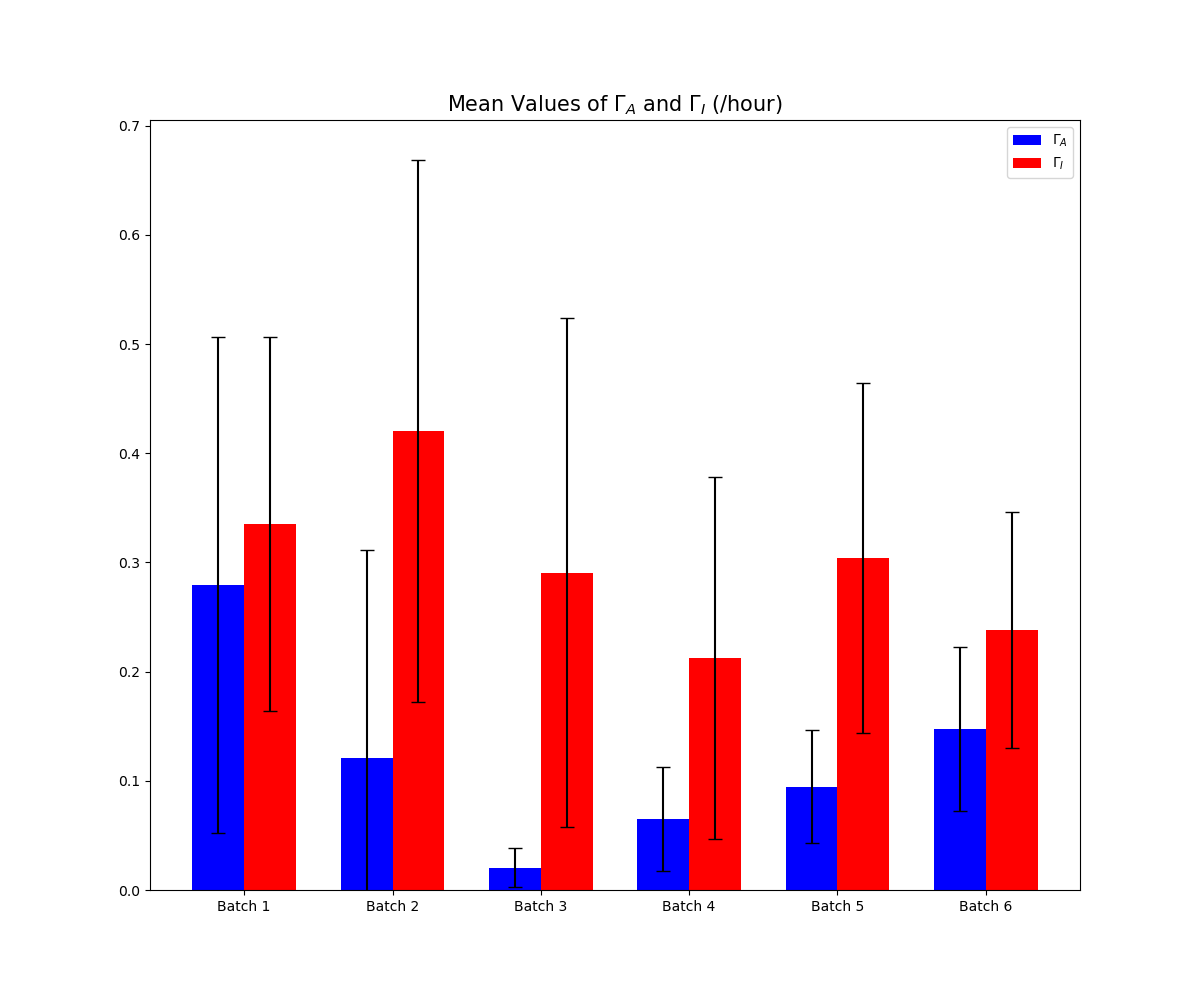
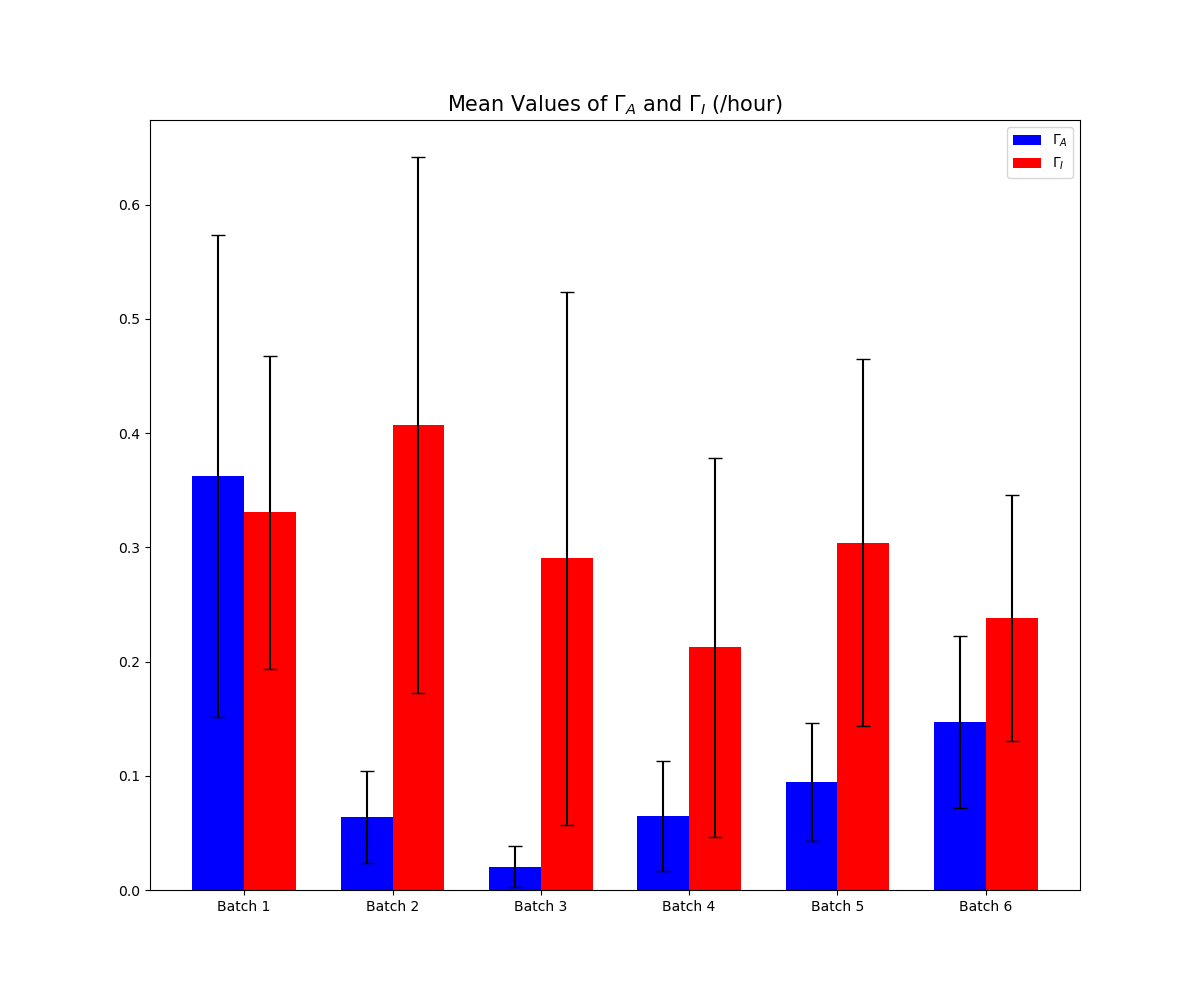
applied masks

diff --git a/plot_regression_results_20260518.py b/plot_regression_results_20260518.py
@@ -10,7 +10,12 @@ x_labels = ['init_no3', 'init_no2']
 y_labels = ['r_A', 'r_I', 'Gamma_A', 'Gamma_I']
 
 # r_A, Gamma_A : Exclude init_no3 = 0 conditions
+r_A_mask = df['init_no3'] > 0.3
+Gamma_A_mask = df['init_no3'] > 0.3
+
 # r_I, Gamma_I : Exclude init_no3 = 0 and init_no2 = 0 conditions
+r_I_mask = ((df['init_no3'] > 0.3) | (df['init_no2'] > 0.3))
+Gamma_I_mask = ((df['init_no3'] > 0.3) | (df['init_no2'] > 0.3))
 
 r_A_mean = []
 r_A_std = []
@@ -23,10 +28,10 @@ Gamma_I_std = []
 
 ids = ['4.2.batch1', '4.2.batch2', '4.2.batch3', '4.2.batch4', '4.2.batch5', '4.2.batch6']
 for id in ids:
-    r_A_values = df[df['id'] == id]['r_A'].values
-    r_I_values = df[df['id'] == id]['r_I'].values
-    Gamma_A_values = df[df['id'] == id]['Gamma_A'].values
-    Gamma_I_values = df[df['id'] == id]['Gamma_I'].values
+    r_A_values = df[(df['id'] == id) & r_A_mask]['r_A'].values
+    r_I_values = df[(df['id'] == id) & r_I_mask]['r_I'].values
+    Gamma_A_values = df[(df['id'] == id) & Gamma_A_mask]['Gamma_A'].values
+    Gamma_I_values = df[(df['id'] == id) & Gamma_I_mask]['Gamma_I'].values
 
     r_A_mean.append(np.mean(r_A_values))
     r_A_std.append(np.std(r_A_values))
@@ -37,10 +42,11 @@ for id in ids:
     Gamma_I_mean.append(np.mean(Gamma_I_values))
     Gamma_I_std.append(np.std(Gamma_I_values))
 
-fig, ax = plt.subplots(1, 1, figsize=(12, 10), squeeze=True)
 labels = ['Batch 1', 'Batch 2', 'Batch 3', 'Batch 4', 'Batch 5', 'Batch 6']
 x = np.arange(len(labels))
 width = 0.35
+
+fig, ax = plt.subplots(1, 1, figsize=(12, 10), squeeze=True)
 ax.bar(x - width/2, Gamma_A_mean, yerr=Gamma_A_std, width=width, label=r'$\Gamma_A$', capsize=5, color='blue')
 ax.bar(x + width/2, Gamma_I_mean, yerr=Gamma_I_std, width=width, label=r'$\Gamma_I$', capsize=5, color='red')
 ax.set_ylim(0, None)
@@ -48,3 +54,14 @@ ax.set_xticks(x, labels)
 ax.set_title(r'Mean Values of $\Gamma_A$ and $\Gamma_I$ (/hour)', fontsize = 15)
 ax.legend()
 plt.savefig('plots/Gamma_A_Gamma_I_mean_values_20260518.png')
+plt.close()
+
+fig, ax = plt.subplots(1, 1, figsize=(12, 10), squeeze=True)
+ax.bar(x - width/2, r_A_mean, yerr=r_A_std, width=width, label=r'$r_A$', capsize=5, color='blue')
+ax.bar(x + width/2, r_I_mean, yerr=r_I_std, width=width, label=r'$r_I$', capsize=5, color='red')
+ax.set_ylim(0, None)
+ax.set_xticks(x, labels)
+ax.set_title(r'Mean Values of $r_A$ and $r_I$ (mM/hour)', fontsize = 15)
+ax.legend()
+plt.savefig('plots/r_A_r_I_mean_values_20260518.png')
+plt.close()
